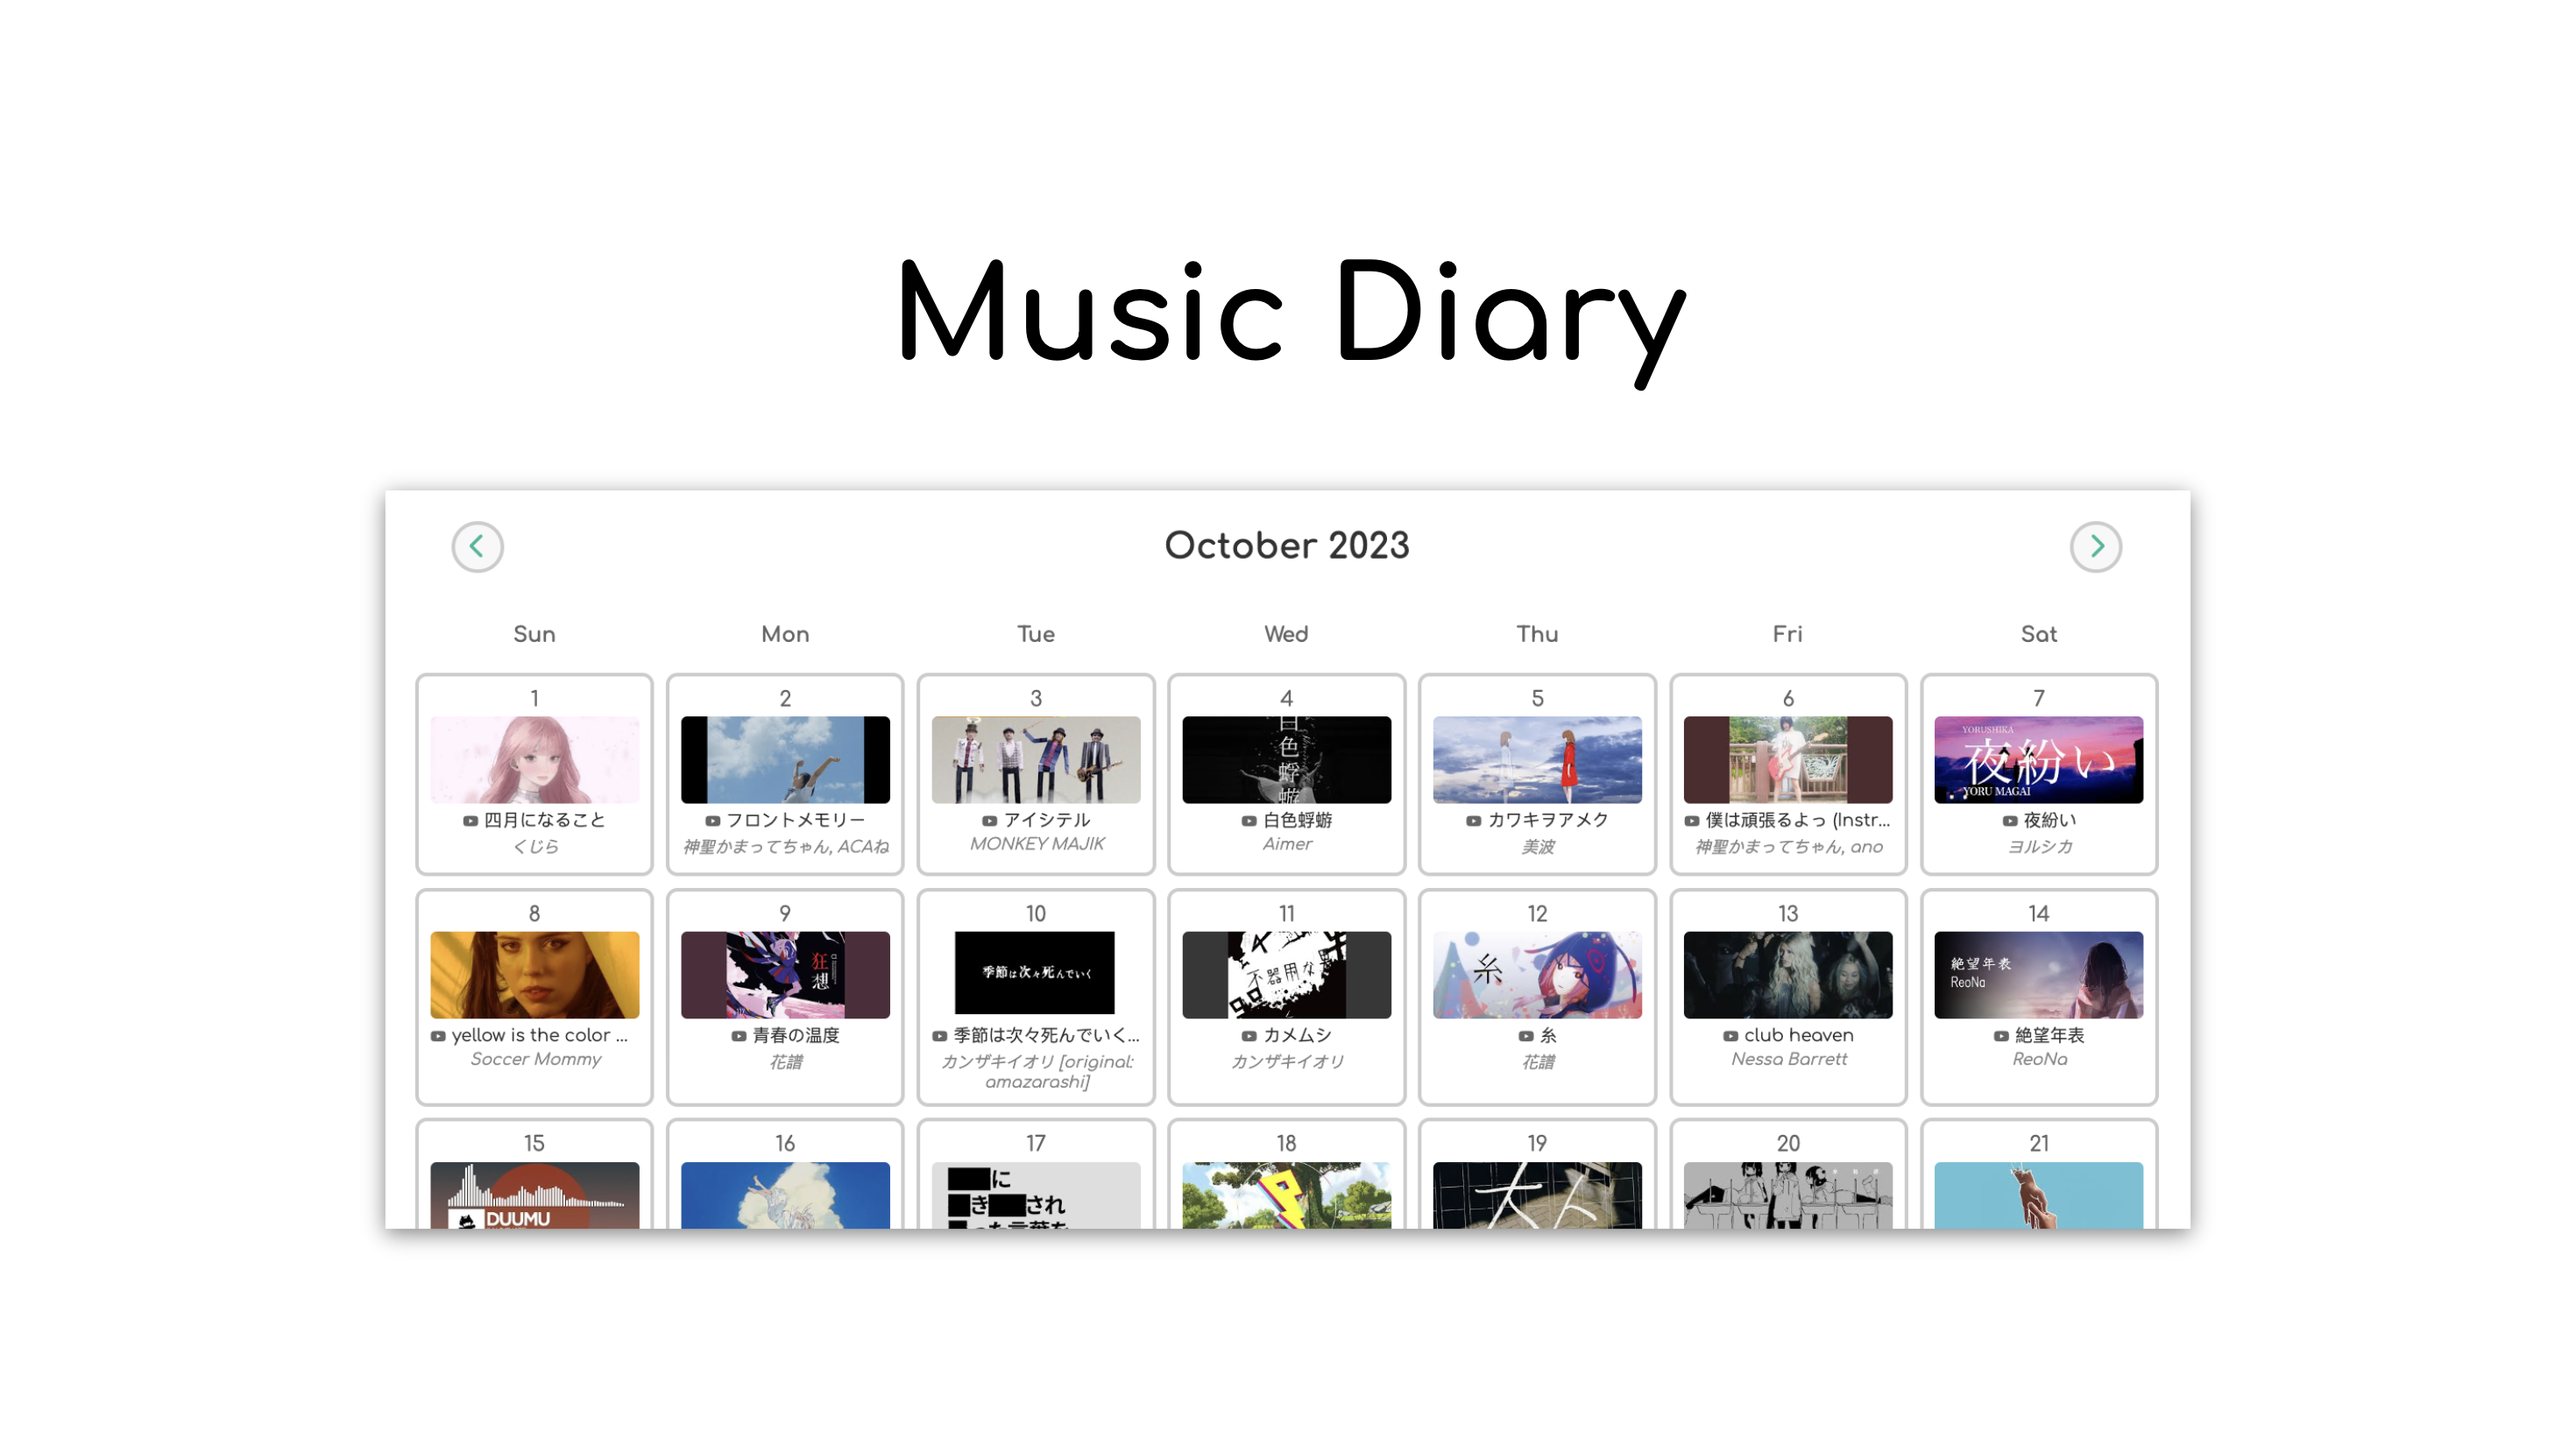
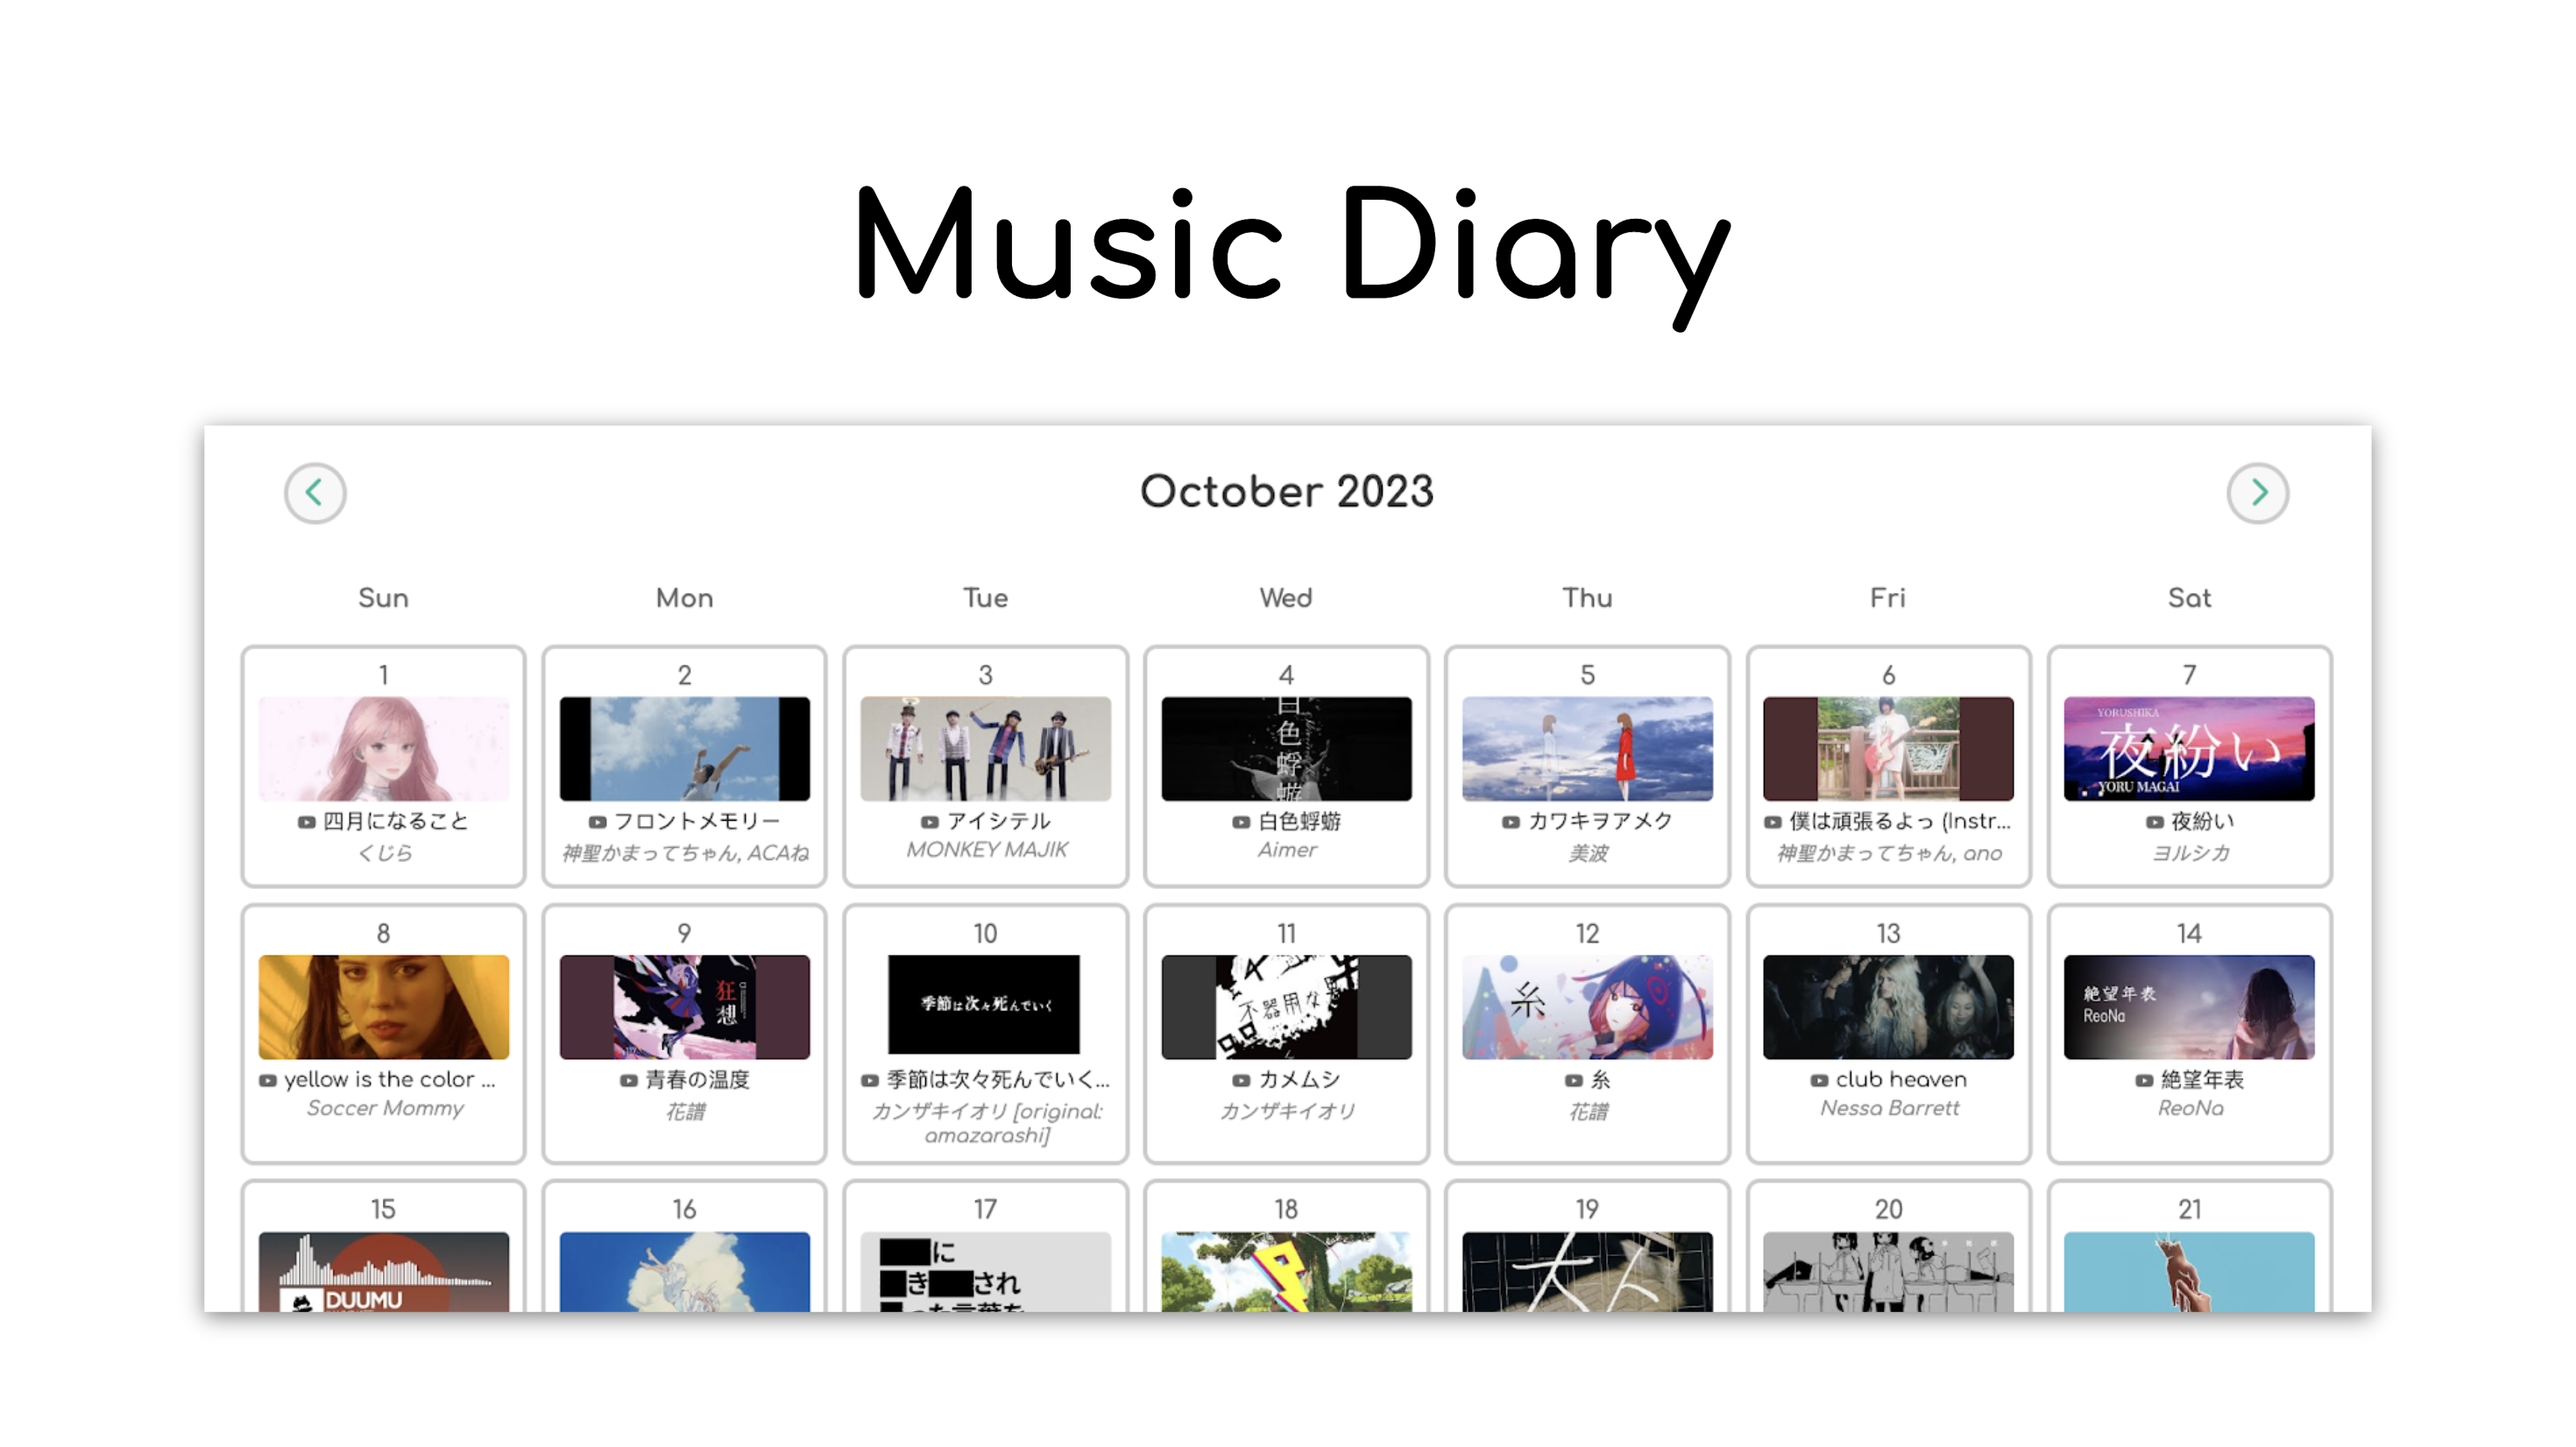
update og image and link

Changed region(s): [[0.0619, 0.1242, 0.9286, 0.9318]]

diff --git a/index.html b/index.html
@@ -6,7 +6,7 @@
     <meta property="og:type" content="website">
     <meta property="og:description" content="A personal diary, one song a day.">
     <meta property="og:url" content="https://music-diary.pages.dev">
-    <meta property="og:image" content="https://raw.githubusercontent.com/hillfields/music-diary/refs/heads/main/images/kanai.png">
+    <meta property="og:image" content="https://raw.githubusercontent.com/hillfields/music-diary/refs/heads/main/images/preview.png">
     <meta name="viewport" content="width=device-width, initial-scale=1.0">
     <title>Music Diary</title>
     <link rel="stylesheet" href="styles.css">
